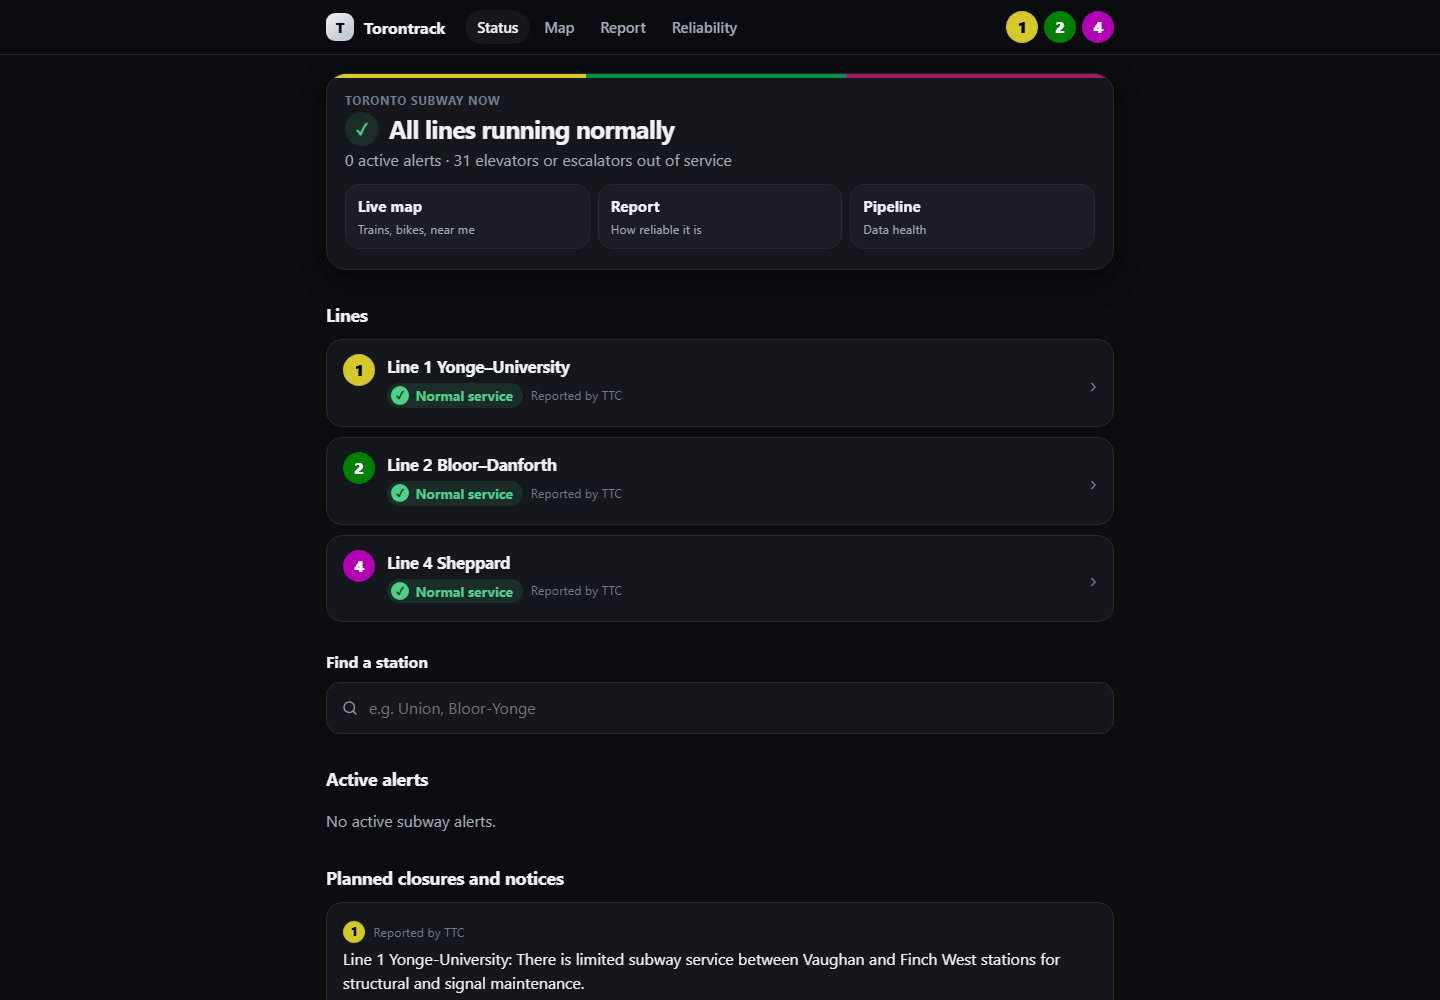
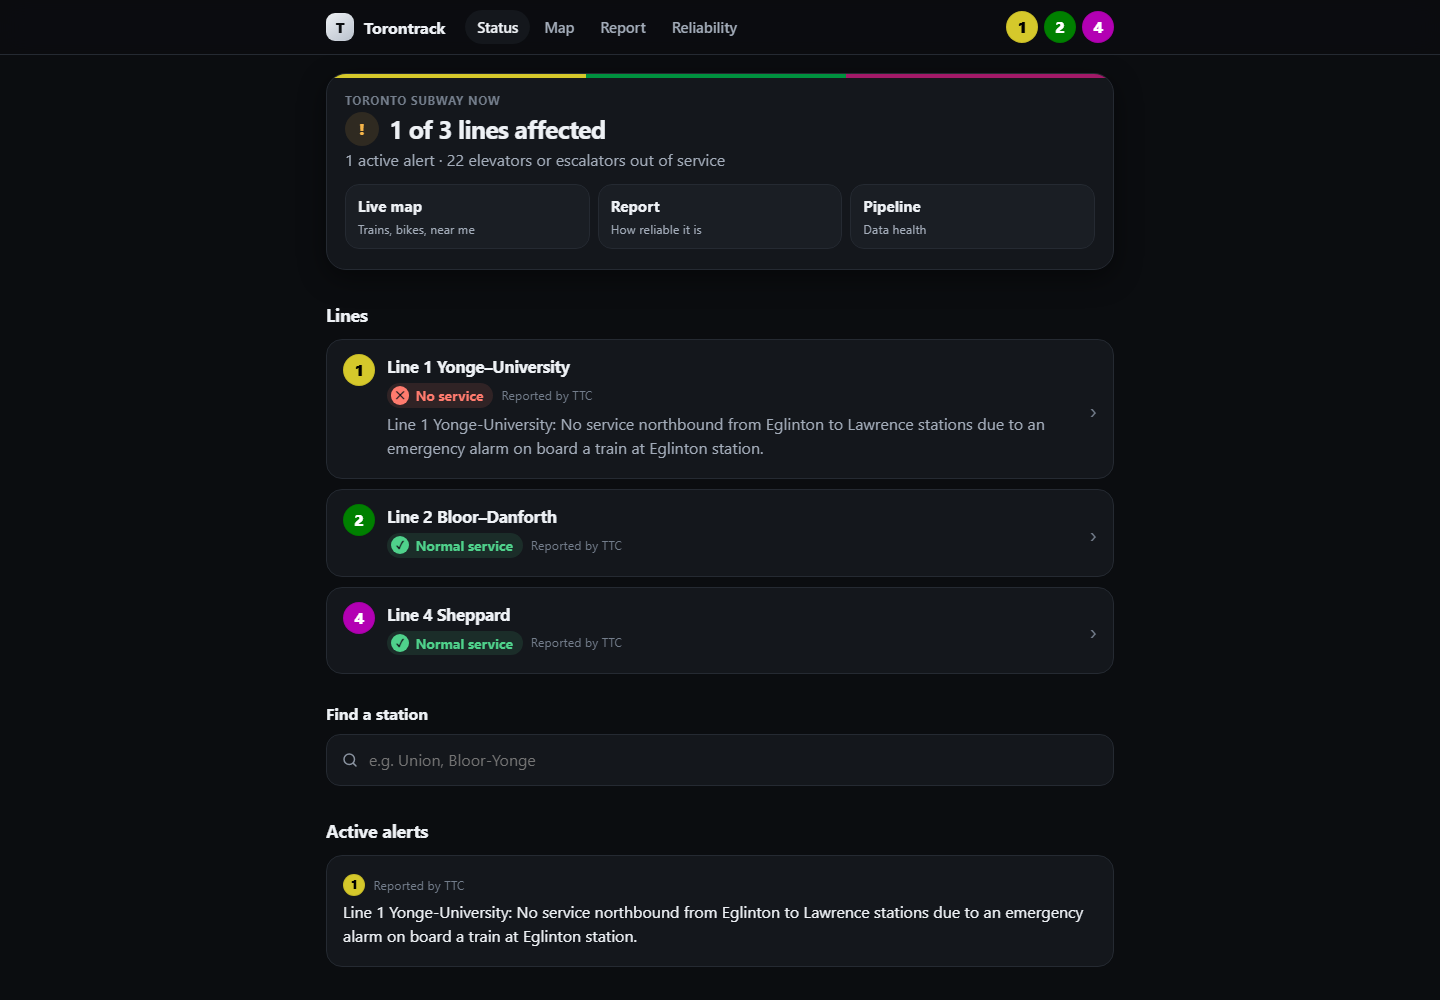
fix(status): correct station status during partial closures
Station panels said No service at every station on a line when TTC closed
only part of it. Also use Regional for the GO travel mode switches.

Changed region(s): [[0.2188, 0.372, 0.7188, 0.837], [0.2188, 0.868, 0.75, 0.992], [0.25, 0.124, 0.5, 0.186]]

diff --git a/src/transit/web/static/app.js b/src/transit/web/static/app.js
@@ -1704,7 +1704,7 @@ const PLAN_MODES = { subway: "Subway", tram: "Streetcar", bus: "Bus", rail: "Tra
 const PLAN_NAME_M = 150;
 
 // Ways to travel a visitor can switch off; walking is always allowed. Bike Share starts off.
-const PLAN_MODE_CHOICES = [["subway", "Subway"], ["tram", "Streetcar"], ["bus", "TTC bus"], ["rail", "GO train"], ["regional_bus", "GO bus"], ["bike_share", "Bike Share"]];
+const PLAN_MODE_CHOICES = [["subway", "Subway"], ["tram", "Streetcar"], ["bus", "TTC bus"], ["rail", "Regional train"], ["regional_bus", "Regional bus"], ["bike_share", "Bike Share"]];
 const PLAN_DEFAULT_MODES = ["subway", "tram", "bus", "rail", "regional_bus"];
 const PLAN_PREFS_KEY = "torontrack.plan";
 
@@ -2292,7 +2292,15 @@ function stationSheet(view, key) {
   return [
     el("p", { class: "sheet-kicker" }, "Subway station"),
     el("h2", { class: "with-badge" }, s.name, el("span", { class: "badges" }, s.lines.map((l) => badge(l, { small: true })))),
-    statuses.map((st) => el("p", { class: "status-line" }, badge(st.line, { link: false, small: true }), statusPill(st.status, st.label))),
+    statuses.map((st) => {
+      // A disruption on another part of the line (say Eglinton to Lawrence, seen from
+      // Union) is shown as elsewhere, not as this station's status.
+      const elsewhere = !["normal", "unknown"].includes(st.status) && s.disrupted && !s.disrupted.includes(st.line);
+      return [
+        el("p", { class: "status-line" }, badge(st.line, { link: false, small: true }), elsewhere ? statusPill("normal", "Running here") : statusPill(st.status, st.label)),
+        elsewhere && st.summary ? el("p", { class: "muted small" }, `Elsewhere on the line: ${st.summary}`) : null,
+      ];
+    }),
     s.outages.length
       ? el("div", { class: "sheet-block" }, el("p", { class: "sheet-label" }, `${plural(s.outages.length, "elevator or escalator", "elevators or escalators")} out of service`), el("ul", { class: "plain" }, s.outages.map((o) => el("li", {}, o))))
       : null,

diff --git a/tests/test_web.py b/tests/test_web.py
@@ -230,6 +230,21 @@ def test_station_page_has_arrivals_alerts_and_bikes(client):
     assert client.get("/api/stations/" + "x" * 80).status_code == 404
 
 
+def test_a_station_is_disrupted_only_by_alerts_that_cover_it():
+    def alert(lines, stops, kind="service", timing="active"):
+        return {"kind": kind, "timing": timing, "lines": lines, "stop_ids": stops}
+
+    closed = alert(["1"], ["13793", "13794"])  # Eglinton to Lawrence
+    # Union (platforms 14404, 14405) is on Line 1 but outside the closed section.
+    assert queries.station_disrupted_lines(["1"], ["14404", "14405"], [closed]) == []
+    assert queries.station_disrupted_lines(["1"], ["13793", "13800"], [closed]) == ["1"]
+    # An alert naming no stations covers the whole line; other lines are unaffected.
+    assert queries.station_disrupted_lines(["1", "2"], ["x"], [alert(["2"], [])]) == ["2"]
+    # Elevator alerts and upcoming closures do not change service status.
+    others = [alert(["1"], [], kind="accessibility"), alert(["1"], [], timing="upcoming")]
+    assert queries.station_disrupted_lines(["1"], ["x"], others) == []
+
+
 @pytest.mark.integration
 def test_map_has_line_paths_stations_and_every_dock(client):
     response = client.get("/api/map", headers={"Accept-Encoding": "gzip"})
@@ -243,7 +258,7 @@ def test_map_has_line_paths_stations_and_every_dock(client):
     # Elevator alerts are attached through the station's platforms, and nowhere else.
     assert bloor["outages"] == ["Bloor-Yonge: Elevator out of service"]
     assert all(not s["outages"] for s in body["stations"] if s["key"] != "bloor-yonge")
-    assert "stop_ids" not in bloor
+    assert "stop_ids" not in bloor and isinstance(bloor["disrupted"], list)
     docks = body["bike_share"]["docks"]
     assert len(docks) == 2
     for dock in docks:

diff --git a/src/transit/web/queries.py b/src/transit/web/queries.py
@@ -337,6 +337,23 @@ def _iso(epoch):
     return datetime.fromtimestamp(epoch, TORONTO).isoformat() if epoch else None
 
 
+def station_disrupted_lines(lines: list[str], stop_ids: list[str], alerts: list[dict]) -> list[str]:
+    """Lines at a station with an active service alert that covers it: one naming one of
+    its platforms, or naming no stations at all (which applies to the whole line). A
+    closure between Eglinton and Lawrence does not cover Union."""
+    stops = set(stop_ids)
+    return sorted(
+        {
+            line
+            for a in alerts
+            if a["kind"] == "service" and a["timing"] == "active"
+            and (not a["stop_ids"] or stops & set(a["stop_ids"]))
+            for line in a["lines"]
+            if line in lines
+        }
+    )  # fmt: skip
+
+
 def line_statuses(
     line_list: list[dict], alerts: list[dict], alerts_fresh: dict, detected: dict | None = None
 ) -> list[dict]:

diff --git a/src/transit/web/app.py b/src/transit/web/app.py
@@ -337,6 +337,9 @@ def create_app(
             for s in network["stations"]:
                 station = {k: v for k, v in s.items() if k != "stop_ids"}
                 station["outages"] = outages.get(s["key"], [])
+                station["disrupted"] = queries.station_disrupted_lines(
+                    s["lines"], s.get("stop_ids", []), alerts
+                )
                 station["entrances"] = entrances.get(s["key"], [])
                 station["bike_parking"] = bike_parking.get(s["key"])
                 stations.append(station)

diff --git a/README.md b/README.md
@@ -83,17 +83,19 @@ official delay log is loaded for comparison.
 Observed train gaps and Bike Share dock readings are published daily as Parquet and CSV
 files, with checksums and column descriptions.
 
-| Trip planner | Trip guidance |
+| Trip planner | Station entrances |
 | --- | --- |
-| ![Directions from Kennedy to St Andrew with the route drawn on the map](docs/screenshots/site-planner.png) | ![Guidance on Line 2: get off at St George, four stops left](docs/screenshots/site-guidance.png) |
+| ![Directions from Casa Loma to 100 Queen St W, typed as a place and an address, with the travel modes to use](docs/screenshots/site-planner.png) | ![Spadina station's entrances, each with its side of the street and whether it is step-free](docs/screenshots/site-entrances.png) |
+| **Trip guidance** | **Where Bike Share trips go** |
+| ![Guidance on Line 2: get off at St George, four stops left](docs/screenshots/site-guidance.png) | ![A Bike Share dock's trips by hour and its top destinations, drawn as lines](docs/screenshots/site-bike-trips.png) |
 
-| Where Bike Share trips go | Reliability report |
-| --- | --- |
-| ![A Bike Share dock's trips by hour and its top destinations, drawn as lines](docs/screenshots/site-bike-trips.png) | ![Extra wait by line and time of day](docs/screenshots/site-report.png) |
+| Reliability report |
+| --- |
+| ![Extra wait by line and time of day](docs/screenshots/site-report.png) |
 
-| Service status | Station panel (dark mode) | Bike Share dock |
+| Service status | Station panel | Bike Share dock |
 | --- | --- | --- |
-| ![Subway status on a phone](docs/screenshots/phone-status.png) | ![Union station with nearby docks and directions](docs/screenshots/phone-station.png) | ![Dock with live bikes and trip history](docs/screenshots/phone-dock.png) |
+| ![Subway status on a phone](docs/screenshots/phone-status.png) | ![Union station: Line 1 running here with a closure elsewhere on the line, and its entrances](docs/screenshots/phone-station.png) | ![Dock with live bikes and trip history](docs/screenshots/phone-dock.png) |
 
 ## How it works
 

diff --git a/docs/planner.md b/docs/planner.md
@@ -95,13 +95,13 @@ here / to here".
 
 ## Choosing how to travel
 
-"Travel by" switches each way of travelling on or off: subway, streetcar, TTC bus, GO
-train, GO bus and Bike Share. Walking is always allowed. Bike Share starts off; the rest
+"Travel by" switches each way of travelling on or off: subway, streetcar, TTC bus, regional
+train, regional bus and Bike Share. Walking is always allowed. Bike Share starts off; the rest
 start on. The choices, and the step-free option, are kept in the browser's local storage on
 that device only, and apply to every trip until changed. Changing one re-plans the trip.
 
 The planner has one mode per kind of vehicle, so subway, streetcar and train map directly.
-TTC and GO buses are both buses, so leaving out one of them excludes that network's bus
+TTC and regional buses are both buses, so leaving out one of them excludes that network's bus
 routes by ID; the route lists are read from the planner and cached for six hours. With
 every transit mode off, the planner returns walking (and Bike Share) trips only.
 

diff --git a/docs/site.md b/docs/site.md
@@ -106,7 +106,11 @@ map opens. On top of the streets:
   the same rule the dashboard uses. Docks refresh every 2 minutes.
 
 Tapping a station, dock or train opens a panel: line status, outages, entrances, nearby
-bike parking and the nearest docks for a station; counts for a dock; next stop for a train. The locate button asks for the
+bike parking and the nearest docks for a station; counts for a dock; next stop for a train.
+A station's line status reflects only alerts that cover it: an alert naming other stations
+(a closure from Eglinton to Lawrence, seen from Union) shows as "Running here" with the
+alert beneath it as elsewhere on the line, and an alert naming no stations applies to the
+whole line. The locate button asks for the
 browser's location, shows it with its accuracy, and lists the closest stations and docks
 with walking distance (straight line at 80 m a minute). The location is used only in the
 page and never sent anywhere; it needs HTTPS (or localhost).
